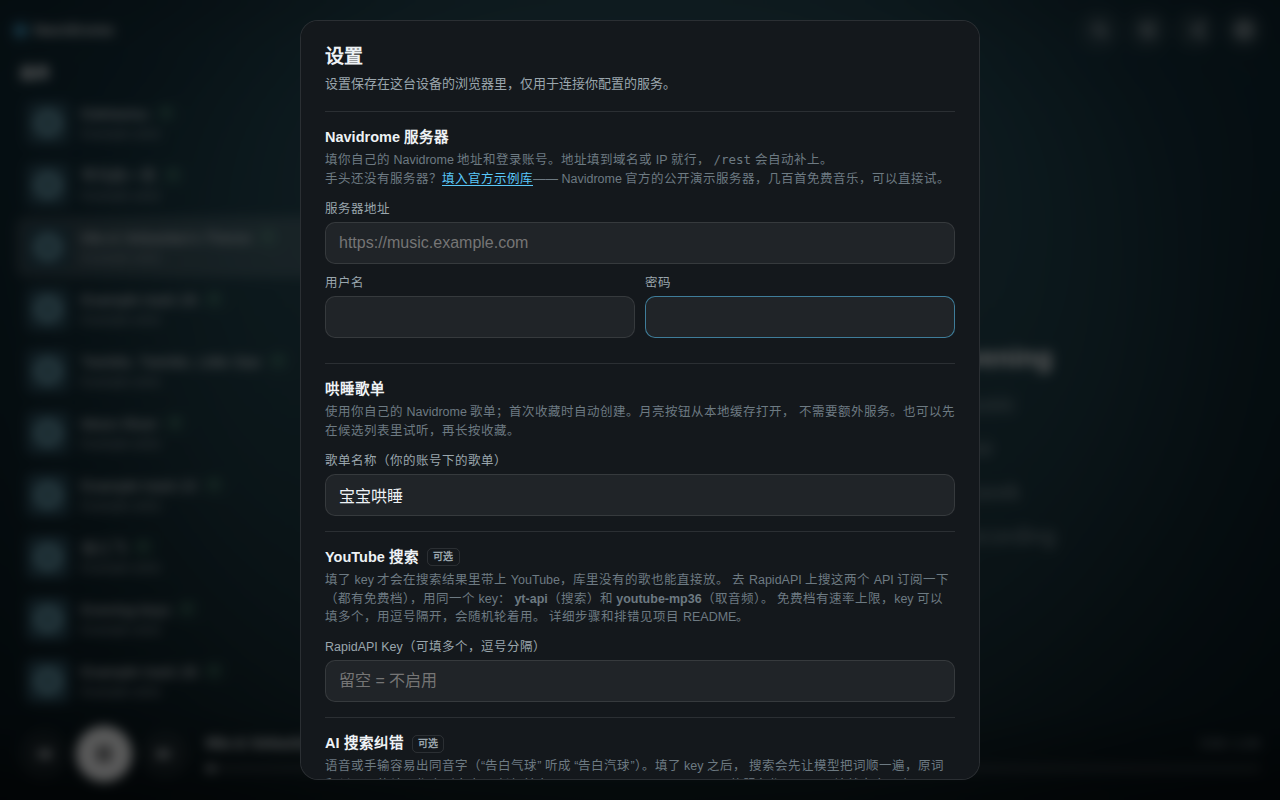
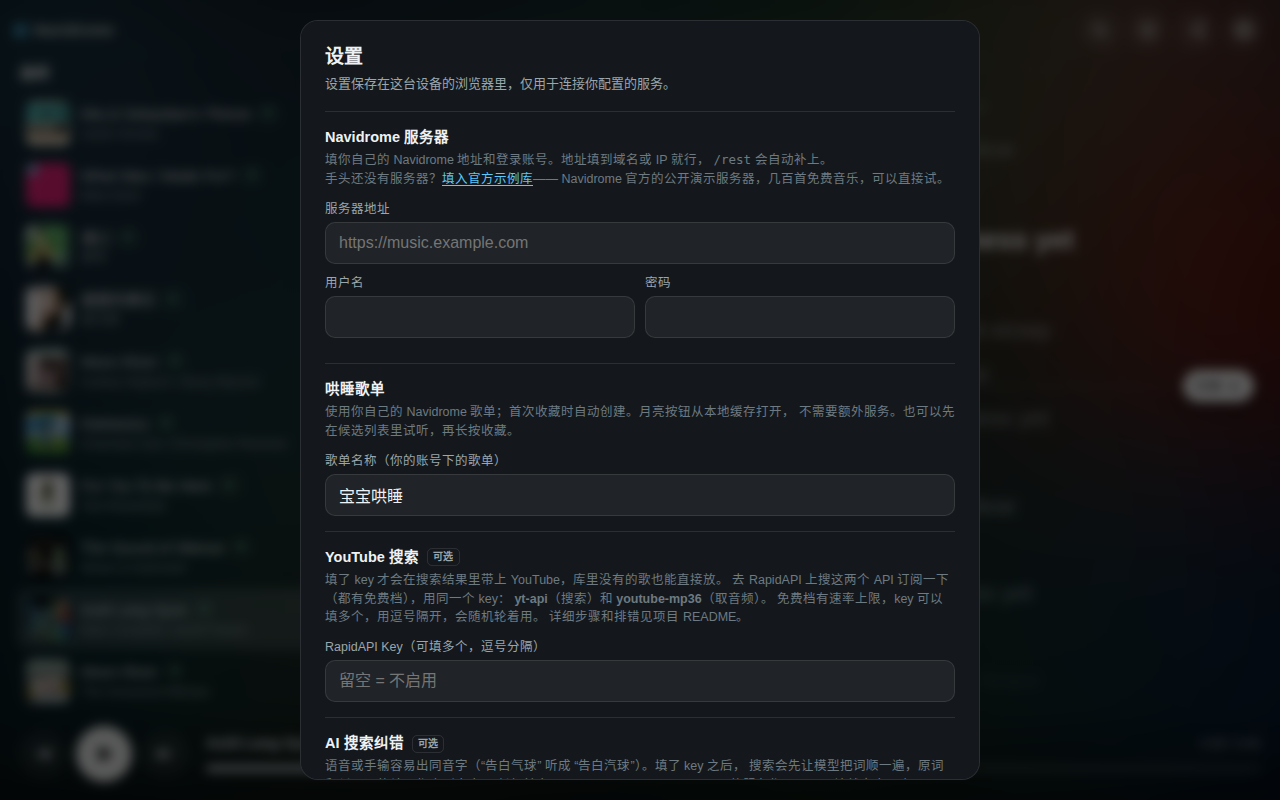
Refresh screenshots with album art and public-domain lyrics

diff --git a/README.md b/README.md
@@ -5,7 +5,7 @@
 A single-file web client for [Navidrome](https://www.navidrome.org/), built for in-car
 browsers. One HTML file — no build step, no server-side component, no dependencies.
 
-![Player](docs/player.png)
+![Auld Lang Syne with timed lyrics and album covers](docs/player.png)
 
 ## Overview
 
@@ -206,9 +206,14 @@ Rows are one line each — artwork, title, source badge and artist — so roughl
 screen at once. Titles that do not fit scroll sideways, and the right edge fades only when
 there is actually more text to reveal.
 
-The screenshots use an example library and illustration artwork, with no private account
-or collection. Covers replace the built-in placeholder only after the image has loaded
-successfully, so a slow or broken server leaves a placeholder rather than an empty box.
+The screenshots show selected library tracks with real album artwork and timed lyrics.
+The playing track is **Auld Lang Syne**, performed by Mairi Campbell and David Francis;
+the displayed lyric excerpt follows Robert Burns's
+[public-domain text (Library of Congress)](https://www.loc.gov/item/00001778/).
+The recording and album artwork retain their respective rights. Account details are omitted.
+
+Covers replace the built-in placeholder only after the image has loaded successfully, so
+a slow or broken server leaves a placeholder rather than an empty box.
 
 ## Bedtime playlist
 

diff --git a/README.zh-CN.md b/README.zh-CN.md
@@ -5,7 +5,7 @@
 面向车机浏览器的 [Navidrome](https://www.navidrome.org/) 客户端。单个 HTML 文件——
 无需构建、无需服务端、无外部依赖。
 
-![播放界面](docs/player.png)
+![Auld Lang Syne 的同步歌词与专辑封面](docs/player.png)
 
 ## 概述
 
@@ -176,8 +176,12 @@ YouTube 条目没有歌词，此时右侧显示封面与标题。
 列表一行一首（封面、歌名、来源角标、歌手都在同一行），一屏大约能看十七首。放不下的歌名可以
 左右滑着看，右边缘只在真的还有内容时才淡出。
 
-截图使用示意曲库和插画封面，不含私人账号或曲库。封面加载成功后才替换内置占位图，
-服务器慢或不可用时会保留占位图，不会留下空白图片。
+截图展示选取的曲库歌曲、真实专辑封面和同步歌词。播放示例为 Mairi Campbell 与 David Francis
+演唱的 **Auld Lang Syne（友谊地久天长）**；展示的歌词片段来自 Robert Burns 的传统文本，
+[美国国会图书馆将其标为公有领域](https://www.loc.gov/item/00001778/)。
+录音和专辑封面的权利仍归各自权利人，截图不展示账号信息。
+
+封面加载成功后才替换内置占位图，服务器慢或不可用时会保留占位图，不会留下空白图片。
 
 ## 哄睡歌单
 
